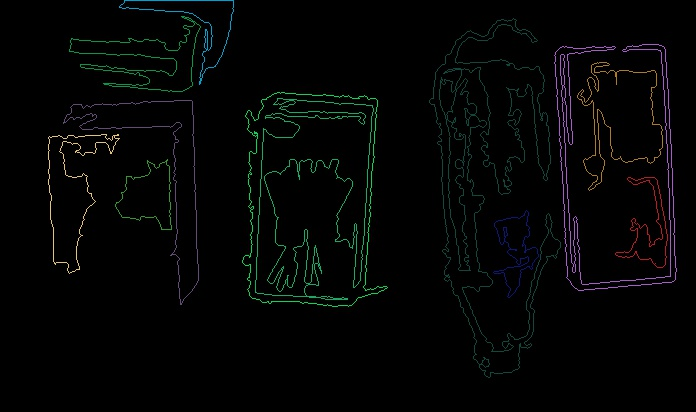
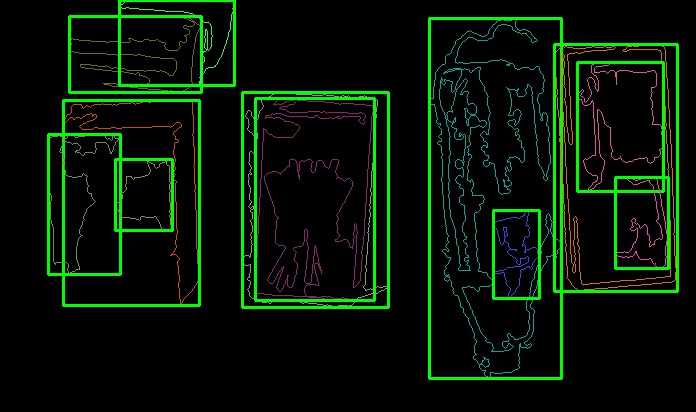
- update api

diff --git a/edge/contour_detect.py b/edge/contour_detect.py
@@ -2,10 +2,9 @@ import cv2
 import numpy as np
 import os
 
-def find_contour(input_path, debug_type=0, thresh_x = 30, top_n = 50):
+def find_contour(input_path, output_dir, debug_type=0, thresh_x = 30, top_n = 50):
     # param@debug_type:0 not debug; 1 store file; 2 show window
     image_dir, image_name = os.path.split(input_path)
-    output_dir = os.path.join(image_dir,'contour')
     if not os.path.isdir(output_dir):
         os.mkdir(output_dir)
 
@@ -104,8 +103,8 @@ def find_contour(input_path, debug_type=0, thresh_x = 30, top_n = 50):
             cv2.drawContours(drawing_contours, [cnt], 0, color, 1)
         x, y, w, h = cv2.boundingRect(cnt)
         boxes.append([x,y,x+w,y+h])
-        # if debug_type > 0:
-        #     drawing_contours = cv2.rectangle(drawing_contours, (x, y), (x + w, y + h), (0, 255, 0), 2)
+        if debug_type > 0:
+            drawing_contours = cv2.rectangle(drawing_contours, (x, y), (x + w, y + h), (0, 255, 0), 2)
 
     if debug_type>0:
         contours_path = os.path.join(output_dir, 'contours_'+image_name)
@@ -115,7 +114,7 @@ def find_contour(input_path, debug_type=0, thresh_x = 30, top_n = 50):
     boxes = non_max_suppression_fast(boxes,0.5)
     boxes = boxes*compress
     for box in boxes:
-        drawing_contours = cv2.rectangle(drawing_contours, (box[0], box[1]), (box[2], box[3]), (0, 0, 255), 4)
+        # drawing_contours = cv2.rectangle(drawing_contours, (box[0], box[1]), (box[2], box[3]), (0, 0, 255), 4)
         if debug_type > 0:
             output = cv2.rectangle(img, (box[0], box[1]), (box[2], box[3]), (0, 0, 255), 1)
 
@@ -193,11 +192,12 @@ if __name__ == "__main__":
     # Enter the input image file
     image_dir, _ = os.path.split(os.path.realpath(__file__))
     image_path = os.path.join(image_dir, "1_1.jpg")
+    output_dir = os.path.join(image_dir,'contour')
 
     # cv2.createTrackbar('canny threshold2:','input',x2,max_x,find_contour_x2)
     import time
     time0 = time.time()
-    boxes = find_contour(image_path, debug_type=2)
+    boxes = find_contour(image_path, output_dir, debug_type=2)
     time1 = time.time()
 
     print('%.2f: %d' %(time1-time0,len(boxes)))
